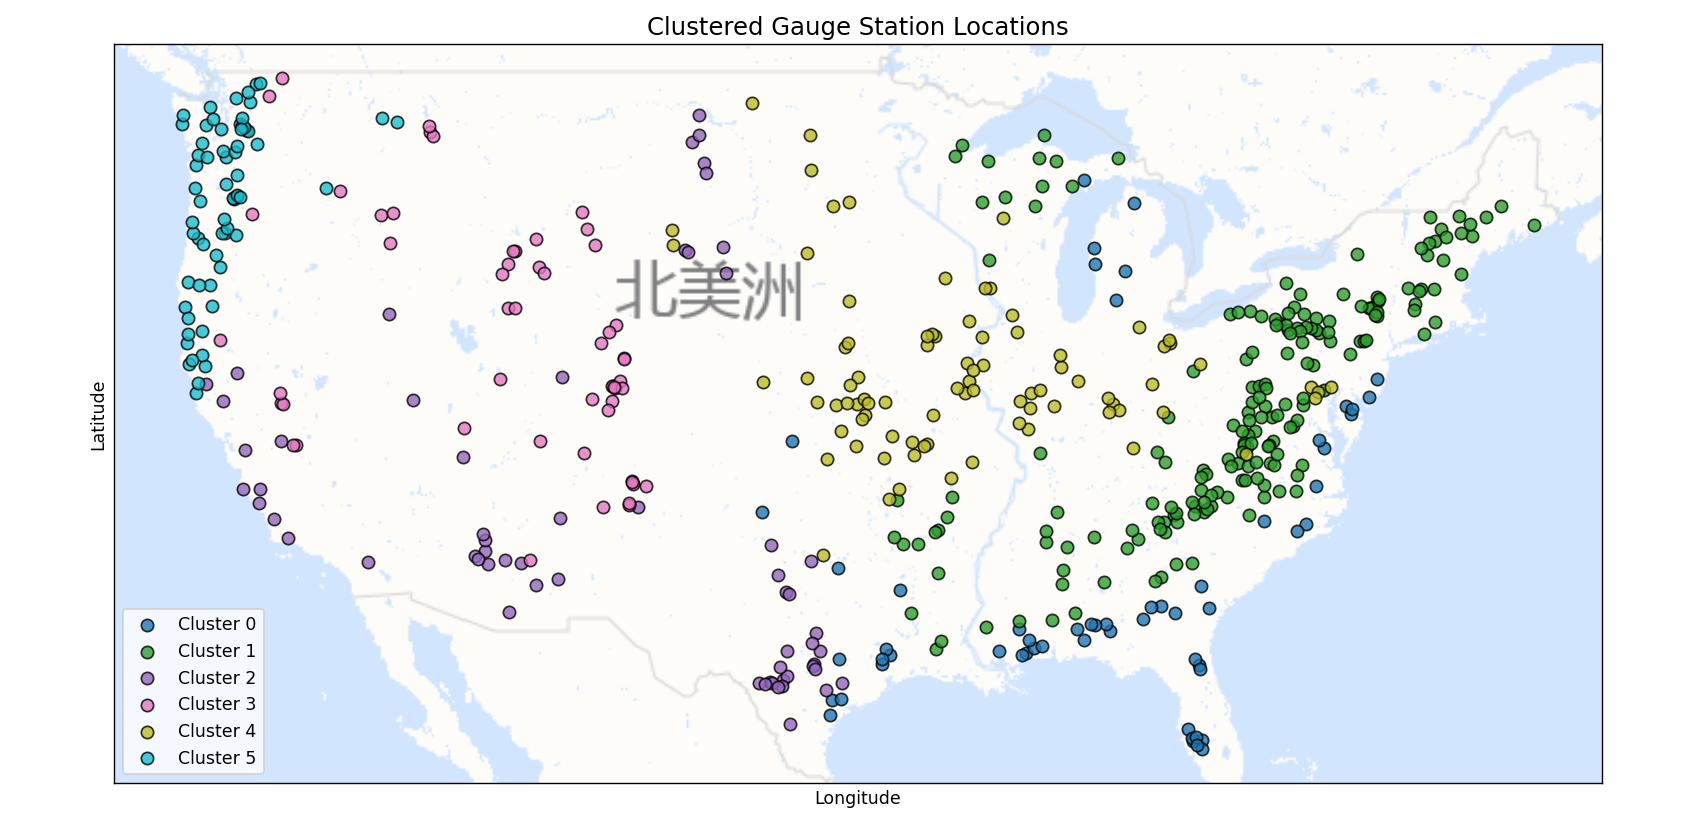
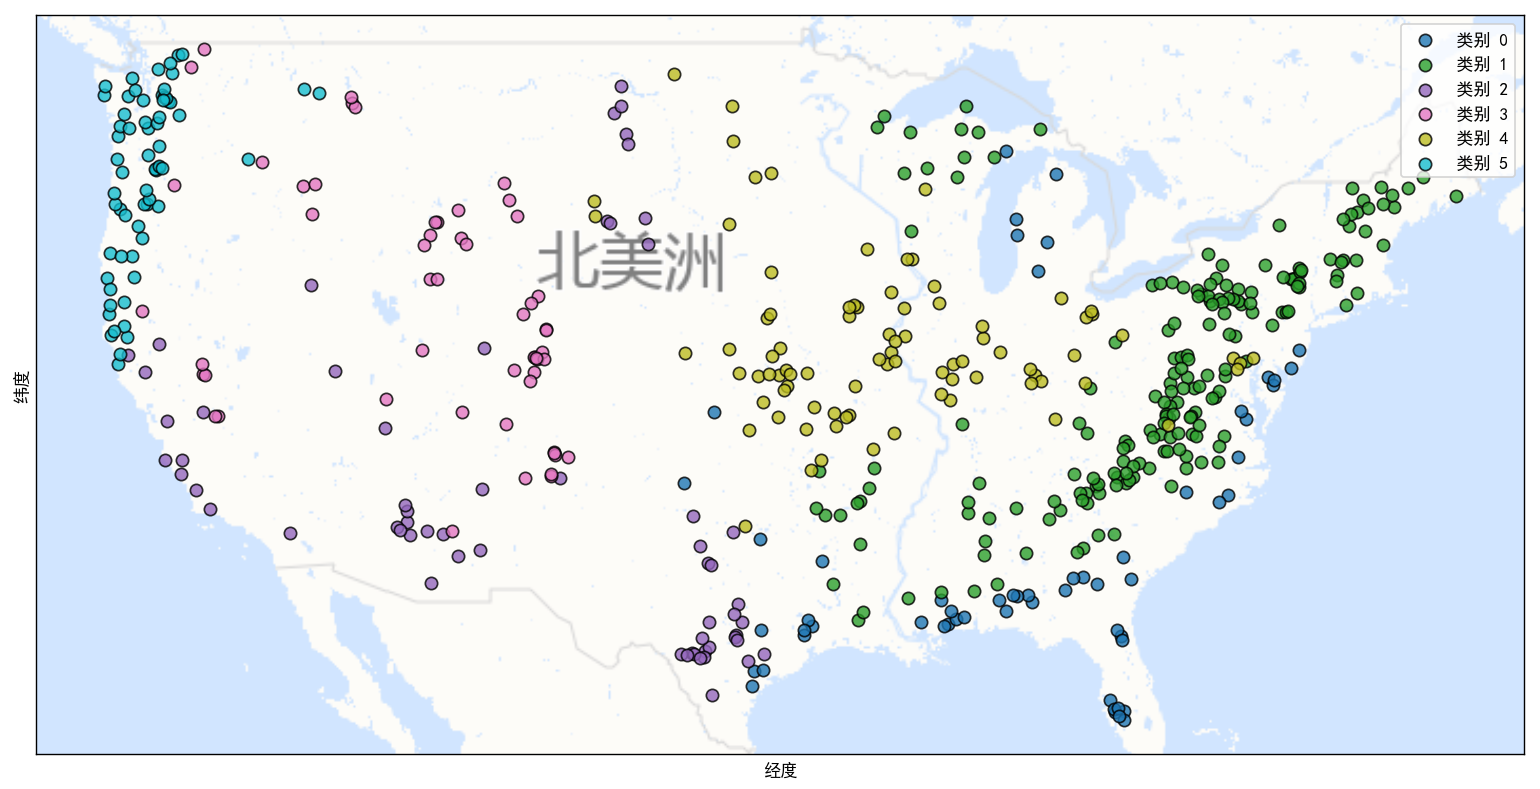
2025/3/18

diff --git a/train_temp/model.py b/train_temp/model.py
@@ -1,3 +1,4 @@
+# Model 1 Encoder CNN  
 import numpy as np
 import torch
 import torch.nn as nn
@@ -6,95 +7,164 @@ from typing import Dict, List, Tuple, Union
 from torchinfo import summary
 from loguru import logger
 
-class MyModel(nn.Module):
-    def __init__(self, dynamic_input_dim: int, static_embd_dim, num_timestep: int, lead_time: int, dropout=0.1) -> None:
+class TemporalFiLM(nn.Module):
+    def __init__(self, feature_dim, condition_dim, timesteps):
+        """
+        Parameters:
+         - feature_dim: 输入的特征维度
+         - condition_dim: 条件的维度
+         - timesteps: 时间步长度
+        """
+        super(TemporalFiLM, self).__init__()
+        self.feature_dim = feature_dim
+        self.timesteps = timesteps
+        
+        # 为固定时间步长生成γ和β参数
+        self.fc_gamma = nn.Linear(condition_dim, feature_dim * timesteps)
+        self.fc_beta = nn.Linear(condition_dim, feature_dim * timesteps)
+        
+    def forward(self, x : torch.Tensor, condition : torch.Tensor) -> torch.Tensor:
+        """
+        Parameters:
+         - x: 输入的时间序列数据，[batch, T, feature_dim]
+         - condition: 条件数据，[batch, condition_dim]
+        Return: FiLM后的数据，[batch, T, feature_dim]
+        """
+        batch_size, T, _ = x.shape
+        
+        # 确保输入的时间步长与模块初始化时指定的时间步长一致
+        assert T == self.timesteps, f"Expected timesteps {self.timesteps}, but got {T}"
+        
+        # 生成所有时间步的gamma和beta参数
+        gamma = self.fc_gamma(condition)  # [batch, feature_dim * timesteps]
+        beta = self.fc_beta(condition)    # [batch, feature_dim * timesteps]
+        
+        # 重塑形状以匹配时间维度
+        # 从 [batch, feature_dim * timesteps] -> [batch, timesteps, feature_dim]
+        gamma = gamma.view(batch_size, self.timesteps, self.feature_dim)
+        beta = beta.view(batch_size, self.timesteps, self.feature_dim)
+        
+        # 应用FiLM变换
+        return gamma * x + beta
+
+class EncoderBlock(nn.Module):
+    def __init__(self, dim: int, num_head: int, dropout: float = 0.1) -> None:
+        """
+        Parameters:
+         - dim: 输入的维度
+         - num_head: 多头自注意力的头数
+         - dropout: dropout的概率
+        """
         super().__init__()
-        self.dynamic_embd_dim = 32          # 输入序列数据的维度
-        self.num_timestep = num_timestep    # 根据过去几个小时的数据预测
-        self.lead_time = lead_time          # 预测未来几个消失的数据
-        self.num_head = 8                   # 多头自注意力的头数
-        self.lstm_hidden_dim = 256          # LSTM的隐藏单元数目
-        self.global_embd_dim = 128          # 最后与LSTM数据拼接的包含全局特征的向量的维度
+        self.multi_head_attention = nn.MultiheadAttention(dim, num_head, batch_first=True, dropout=dropout)
+        self.layer_norm1 = nn.LayerNorm(dim)
+        
+        # 使用Leaky ReLU的前馈网络
+        self.feed_forward = nn.Sequential(
+            nn.Linear(dim, dim * 4),  # 保持4倍维度扩展
+            nn.LeakyReLU(negative_slope=0.1),
+            nn.Dropout(dropout),
+            nn.Linear(dim * 4, dim),
+            nn.Dropout(dropout)
+        )
+        self.layer_norm2 = nn.LayerNorm(dim)
         self.dropout = nn.Dropout(dropout)
 
-        # 对数据进行embeding的网络
-        self.dynamic_embd_net = nn.Sequential(
-            nn.Linear(dynamic_input_dim, 80),
-            nn.Tanh(),
-            nn.Dropout(p=0.2),
-            nn.Linear(80, self.dynamic_embd_dim)
-        )
-
-        # LSTM
-        self.lstm = nn.LSTM(self.dynamic_embd_dim, self.lstm_hidden_dim, batch_first=True)
-
-        # Multi-Head self Attention
-        self.self_attention = nn.MultiheadAttention(self.lstm_hidden_dim, self.num_head, batch_first=True)
-
-        # 用于多头自注意力后的残差连接的Layer Normalization
-        self.layer_norm1 = nn.LayerNorm(self.lstm_hidden_dim)
-
-        # 对应论文中的Weight Layer
-        self.weight_layer_1 = nn.Sequential(
-            nn.Linear(self.lstm_hidden_dim, self.lstm_hidden_dim),
-            nn.LeakyReLU(negative_slope=0.1),
-            nn.Linear(self.lstm_hidden_dim, self.lstm_hidden_dim),
-            nn.LeakyReLU(negative_slope=0.1)
-        )
-
-        # Weight的残差连接的Layer Normalization
-        self.layer_norm2 = nn.LayerNorm(self.lstm_hidden_dim)
-
-        # 残差连接后的Liner
-        self.weight_layer_2 = nn.Linear(self.lstm_hidden_dim, self.lstm_hidden_dim)
-
-        # 一维卷积
-        self.conv = nn.Conv1d(self.lstm_hidden_dim, self.lstm_hidden_dim, 3, padding='same')
-
-        # 全局平均池化
-        self.GAP = nn.AdaptiveAvgPool1d(output_size=1)
-
-        # 卷积池化后的全连接层
-        self.dense = nn.Sequential(
-            nn.Linear(self.lstm_hidden_dim, self.global_embd_dim),
-            nn.LeakyReLU(negative_slope=0.1),
-            nn.Linear(self.global_embd_dim, self.global_embd_dim),
-        )
-
-        # 生成预测数据的全连接网络
-        self.pred_net = nn.Sequential(
-            nn.Linear((self.lstm_hidden_dim + self.global_embd_dim) * self.num_timestep, 
-                      self.lead_time),
-            nn.LeakyReLU(negative_slope=0.1),
-            nn.Linear(self.lead_time, self.lead_time),
-        )
-
-    def forward(self, x: torch.Tensor, x_s)-> torch.Tensor:
+    def forward(self, x: torch.Tensor) -> torch.Tensor:
         """
         Parameter:
          - x: (batch_size, seq_len, input_dim)
+        Return: (batch_size, seq_len, input_dim)
+        """
+        # 多头自注意力部分
+        attn_output, _ = self.multi_head_attention(x, x, x)  # (batch_size, seq_len, input_dim)
+        x = self.layer_norm1(x + self.dropout(attn_output))  # (batch_size, seq_len, input_dim)
+        
+        # 使用Leaky ReLU的前馈网络
+        ffn_output = self.feed_forward(x)  # (batch_size, seq_len, input_dim)
+        return self.layer_norm2(x + self.dropout(ffn_output))
+
+class MyModel(nn.Module):
+    def __init__(self, 
+                 dynamic_input_dim: int,    # 输入序列数据的维度
+                 static_input_dim: int,     # 输入序列数据的维度
+                 dynamic_embd_dim: int = 256, # 动态数据的embedding维度
+                 static_embd_dim: int = 32,  # 静态数据的embedding维度
+                 num_timestep: int = 8,     # 根据过去几个小时的数据预测
+                 lead_time: int = 6,        # 预测未来几个消失的数据
+                 num_head: int = 8,         # 多头注意力的头数
+                 encoder_layers: int = 1,   # 编码器的层数
+                 global_embd_dim: int = 128, # 全局嵌入的维度
+                 dropout=0.1) -> None:
+        super().__init__()
+
+        # 对动态数据进行embeding的网络
+        self.dynamic_embd_net = nn.Sequential(
+            nn.Linear(dynamic_input_dim, dynamic_embd_dim),
+            nn.Tanh(),
+            nn.Dropout(p=0.2),
+            nn.Linear(dynamic_embd_dim, dynamic_embd_dim)
+        )
+
+        # 对静态数据进行embeding的网络
+        self.static_embd_net = nn.Sequential(
+            nn.Linear(static_input_dim, static_embd_dim),
+            nn.Tanh(),
+            nn.Dropout(p=0.2),
+            nn.Linear(static_embd_dim, static_embd_dim)
+        )
+
+        hidden_dim = dynamic_embd_dim + static_embd_dim
+        # LSTM
+        self.lstm = nn.LSTM(input_size=hidden_dim, hidden_size=hidden_dim, batch_first=True)
+
+        # Encoder Layers
+        self.encoder_layers = nn.ModuleList([
+            EncoderBlock(dim=hidden_dim, num_head=num_head, dropout=dropout) for _ in range(encoder_layers)
+        ])
+
+        self.GAP = nn.AdaptiveAvgPool1d(output_size=1)
+        self.dense = nn.Sequential(
+            nn.Linear(hidden_dim, global_embd_dim),
+            nn.LeakyReLU(negative_slope=0.1),
+            nn.Linear(global_embd_dim, global_embd_dim)
+        )
+
+        # Output Layer
+        self.output_layer = nn.Sequential(
+            nn.Linear((hidden_dim + global_embd_dim) * num_timestep, 64),
+            nn.LeakyReLU(negative_slope=0.1),
+            nn.Linear(64, lead_time)
+        )
+
+
+    def forward(self, x_d : torch.Tensor, x_s : torch.Tensor)-> torch.Tensor:
+        """
+        Parameter:
+         - x_d: (batch_size, seq_len, dynamic_input_dim) 动态数据
+         - x_s: (batch_size, static_input_din) 静态数据
         Return: (batch_size, lead_time)
         """
-        x = self.dynamic_embd_net(x)    # (batch_size, seq_len, embd_dim)
-        lstm_output, _ = self.lstm(x)             # (batch_size, seq_len, lstm_embd_dim)
-        attn_output, _ = self.self_attention(lstm_output, lstm_output, lstm_output)    # (batch_size, seq_len, lstm_embd_dim)
-        x = self.layer_norm1(lstm_output + self.dropout(attn_output))
-        wl_output = self.weight_layer_1(x)
-        x = self.layer_norm2(x + self.dropout(wl_output))
-        x = self.weight_layer_2(x)
-        # (batch_size, seq_len, lstm_embd_dim)
+        x_d = self.dynamic_embd_net(x_d)    # (batch_size, seq_len, dynamic_embd_dim)
+        x_s = self.static_embd_net(x_s)     # (batch_size, static_embd_dim)
 
-        x = self.conv(x.transpose(1, 2))    # (batch_size, dim, seq_len)
-        x = self.GAP(x) # (batch_size, dim, 1)
-        x = x.squeeze() # (batch_size, dim)
+        x_s = x_s.unsqueeze(1).expand(-1, x_d.shape[1], -1)  # (batch_size, seq_len, static_embd_dim)
+        x_d = torch.concat([x_d, x_s], dim=-1)  # (batch_size, seq_len, dynamic_embd_dim + static_embd_dim)
 
-        x = self.dense(self.dropout(x))
+        # LSTM
+        x_d, _ = self.lstm(x_d)              # (batch_size, seq_len, dynamic_embd_dim)
 
-        x = x.unsqueeze(1)  # (batch_size, 1, dim)
-        x = torch.concat((x.expand(-1, self.num_timestep,-1), lstm_output), dim=2)
+        # Encoder Layers
+        encoder_output = x_d
+        for encoder in self.encoder_layers:
+            encoder_output = encoder(encoder_output)    # (batch_size, seq_len, dynamic_embd_dim)
 
-        return self.pred_net(x.flatten(1))
+        encoder_output = self.GAP(encoder_output.transpose(-1, -2)).transpose(-1, -2)  # (batch_size, 1, dynamic_embd_dim)
+        encoder_output = self.dense(encoder_output)  # (batch_size, global_embd_dim)
+        x_d = torch.concat([x_d, encoder_output.expand(-1, x_d.shape[1], -1)], dim=-1)  # (batch_size, seq_len, dynamic_embd_dim + global_embd_dim)
 
+        return self.output_layer(x_d.flatten(1))    # (batch_size, lead_time)
+    
 def init_weights(model):
     for m in model.modules():
         if isinstance(m, nn.Linear):
@@ -121,7 +191,10 @@ def init_weights(model):
                     nn.init.zeros_(param)
 
 if __name__ == '__main__':
-    # model = HybirdModel(dynamic_input_dim=12, num_timestep=8, lead_time=6)
-    # x = torch.randn(32, 8, 12)
-    # print(model(x).shape)
-    pass
+    # x_d = torch.randn(32, 8, 12)
+    # x_s = torch.randn(32, 27)
+    model = MyModel(12, 27)
+    model.apply(init_weights)
+    # y = model(x_d, x_s)
+    # print(y.shape)
+    summary(model, input_size=[(32, 8, 12), (32, 27)], device='cpu')

diff --git a/my-model/test.py b/my-model/test.py
@@ -113,14 +113,15 @@ class TestInterface(object):
         
         # 绘图
         seq_len, lead_time = y_true.shape
+        lead_time = 6
         colors = ['red', 'orange', 'green', 'purple', 'brown', 'pink']
         plt.figure(figsize=(12, 6))
         plt.plot(y_true[:, 0], label='观测值', color='blue')
         for i in range(lead_time):
-            plt.plot(range(i, seq_len), y_pred[i:, i], label=f'提前{i}步预测', color=colors[i], linestyle='dashed', alpha=(lead_time-i)/lead_time)
-        plt.xlabel('Time Steps')
-        plt.ylabel('Streamflow')
-        plt.title(f'Basin {basin} - Observerd vs Predicted Streamflow')
+            plt.plot(range(i, seq_len), y_pred[i:, i], label=f'提前{i+1}步预测', color=colors[i], linestyle='dashed', alpha=(lead_time-i)/lead_time)
+        plt.xlabel('时间步')
+        plt.ylabel('流量值')
+        plt.title(f'流域 {basin} - 观测值与预测值对比')
         plt.legend()
         plt.show()
 
@@ -160,7 +161,7 @@ if __name__ == '__main__':
     test_interface = TestInterface(args.get_opts())
     test_interface.main()
 
-# python -u test.py --use_GPU --GPU_id 0 --num_workers=4 --start_time=2009-10-01T00 --end_time=2011-09-30T00 --model_path=./checkpoints/epoch3.pth --basin_list=30_basin_list_evenly.txt --test_basin_by_basin
+# python -u test.py --use_GPU --GPU_id 0 --num_workers=4 --start_time=2009-10-01T00 --end_time=2011-09-30T00 --model_path=./checkpoints/epoch3.pth --basin_list=30_basin_list_evenly.txt --test_for_single_basin --gauge_id=12488500
 
 # python -u test.py --use_GPU --GPU_id 0 --num_workers=4 --start_time=2009-10-01T00 --end_time=2011-09-30T00 --dynamic_meanstd=dynamic_30_basin_list_evenly.csv --model_path=./checkpoints/epoch3.pth --basin_list=30_basin_list_evenly_test.txt --test_basin_by_basin
 

diff --git a/train_temp/test.py b/train_temp/test.py
@@ -167,7 +167,7 @@ if __name__ == '__main__':
 # python -u test.py --use_GPU --GPU_id 0 --num_workers=4 --start_time=2009-10-01T00 --end_time=2011-09-30T00 --model_path=./checkpoints/epoch3.pth --basin_list=30_basin_list_evenly.txt --test_basin_by_basin
 
 # 空间泛化能力测试
-# python -u test.py --use_GPU --GPU_id 0 --num_workers=4 --start_time=2009-10-01T00 --end_time=2011-09-30T00 --dynamic_meanstd=dynamic_150_basin_list_evenly.csv --static_meanstd=static_150_basin_list_evenly.csv --model_path=./checkpoints/epoch6.pth --basin_list=30_basin_list_evenly_test.txt --test_basin_by_basin
+# python -u test.py --use_GPU --GPU_id 0 --num_workers=4 --start_time=2009-10-01T00 --end_time=2011-09-30T00 --dynamic_meanstd=dynamic_150_basin_list_evenly.csv --static_meanstd=static_150_basin_list_evenly.csv --model_path=./checkpoints/epoch4.pth --basin_list=30_basin_list_evenly_test.txt --test_basin_by_basin
 
 # 单流域测试
 # python -u test.py --use_GPU --GPU_id 0 --num_workers=4 --start_time=2009-10-01T00 --end_time=2011-09-30T00 --dynamic_meanstd=dynamic_150_basin_list_evenly.csv --static_meanstd=static_150_basin_list_evenly.csv --model_path=./checkpoints/epoch3.pth --basin_list=30_basin_list_evenly_test.txt --test_for_single_basin --gauge_id=06917000

diff --git a/train_temp/train.py b/train_temp/train.py
@@ -157,3 +157,5 @@ if __name__ == '__main__':
     train_interface.main()
 
 # python train.py --batch_size=256 --train_start_time=2002-10-01T00 --train_end_time=2003-09-30T00 --epoch=50 --save_freq=1 --use_GPU --GPU_id=0 --val_freq=1 --val_start_time=2007-10-01T00 --val_end_time=2009-09-30T00 --num_workers=8 --train_basin_list=150_basin_list_evenly.txt --val_basin_list=30_basin_list_evenly_test.txt --train_dataset_path=../data/CAMELS_US/hourly/150_basin_list_evenly_1y.nc --val_dataset_path=../data/CAMELS_US/hourly/30_basin_list_evenly_test_val_2y.nc --dynamic_meanstd=dynamic_150_basin_list_evenly.csv --static_meanstd=static_150_basin_list_evenly.csv
+
+# python train.py --batch_size=256 --train_start_time=2002-10-01T00 --train_end_time=2007-09-30T00 --epoch=50 --save_freq=1 --use_GPU --GPU_id=0 --val_freq=1 --val_start_time=2007-10-01T00 --val_end_time=2009-09-30T00 --num_workers=8 --train_basin_list=30_basin_list_evenly.txt --val_basin_list=30_basin_list_evenly.txt --train_dataset_path=../data/CAMELS_US/hourly/30_basin_list_evenly_train_5y.nc --val_dataset_path=../data/CAMELS_US/hourly/30_basin_list_evenly_val_2y.nc --dynamic_meanstd=dynmaic_30_basin_list_evenly.csv --static_meanstd=static_30_basin_list_evenly.csv

diff --git a/transformer-lstm-original/test.py b/transformer-lstm-original/test.py
@@ -159,7 +159,7 @@ if __name__ == '__main__':
     test_interface.main()
 
 # Generalization in time
-# python -u test.py --use_GPU --GPU_id=0 --num_workers=2 --start_time=2009-10-01T00 --end_time=2011-09-30T00  --model_path=./checkpoints/epoch4.pth --basin_list=30_basin_list_evenly.txt --test_basin_by_basin
+# python -u test.py --use_GPU --GPU_id=0 --num_workers=2 --start_time=2009-10-01T00 --end_time=2011-09-30T00  --model_path=./checkpoints/epoch4.pth --basin_list=time_bad_basin_list.txt --test_basin_by_basin
 
 # Generalization in space
 # python -u test.py --use_GPU --GPU_id=0 --num_workers=2 --start_time=2009-10-01T00 --end_time=2011-09-30T00 --dynamic_meanstd=dynamic_30_basin_list_evenly.csv --model_path=./checkpoints/epoch3.pth --basin_list=30_basin_list_evenly_test.txt --test_basin_by_basin

diff --git a/utils/draw_clusters.py b/utils/draw_clusters.py
@@ -53,7 +53,7 @@ def draw_clusters(output_dir: Path, dataset_path: Path):
         gdf = gdf.to_crs(epsg=3857)
 
         # 绘制站点
-        gdf.plot(ax=ax, color=colors(idx), markersize=50, alpha=0.8, edgecolor="black", label=f"Cluster {cluster_id}")
+        gdf.plot(ax=ax, color=colors(idx), markersize=50, alpha=0.8, edgecolor="black", label=f"类别 {cluster_id}")
 
     # 添加底图
     tile_url = "http://wprd04.is.autonavi.com/appmaptile?lang=zh_cn&size=1&style=7&x={x}&y={y}&z={z}"
@@ -61,7 +61,6 @@ def draw_clusters(output_dir: Path, dataset_path: Path):
 
     # 设置图例和标题
     ax.legend()
-    ax.set_title("不同类别流域的分布", fontsize=14)
     ax.set_xlabel("经度")
     ax.set_ylabel("纬度")
 
